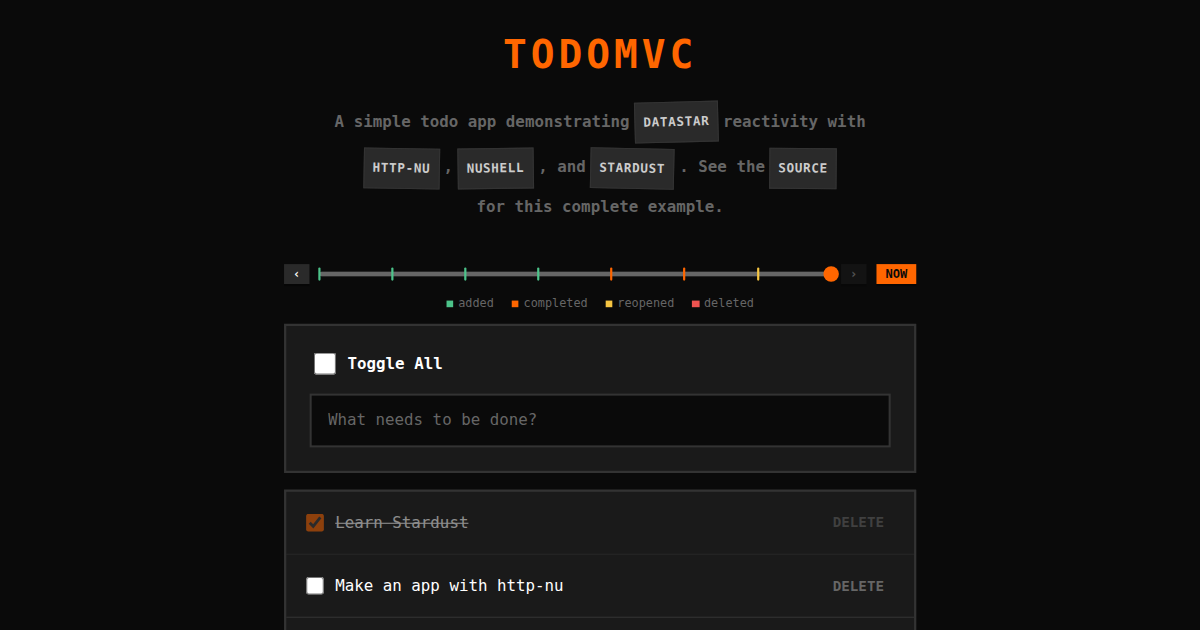
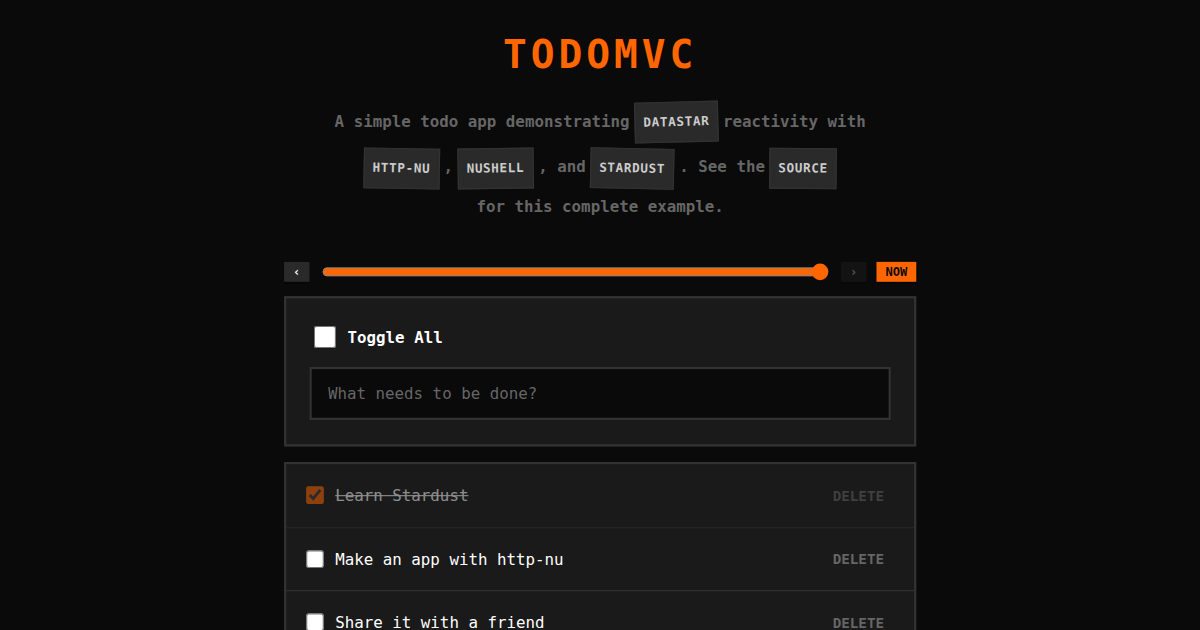
todomvc: drop slider marks, key and scrub-knob for a plain range
The marks smeared together past a few hundred changes, and scrub-knob's
relative drag left the thumb behind the pointer. A native range spans the
whole history with the thumb under the pointer; the step buttons and arrow
keys still move one change. Refresh the og image to match.

diff --git a/examples/todomvc/templates/index.html b/examples/todomvc/templates/index.html
@@ -23,7 +23,6 @@
     <meta property="twitter:image" content="{{ url }}static/og.png?v={{ rev }}">
     <link rel="stylesheet" href="static/style.css?v={{ rev }}">
     <script type="module" src="{{ datastar }}"></script>
-    <script type="module" src="static/scrub-knob.js?v={{ rev }}"></script>
   </head>
   <body>
     <main>
@@ -75,14 +74,13 @@
       </div>
 
       <!-- Time travel. $_steps lists the transactions that changed the list,
-           oldest first, sent with each live update; the last is now. $_kinds
-           has each one's kind of change, drawn as marks on the slider. $at is
+           oldest first, sent with each live update; the last is now. $at is
            the transaction shown, 0 for now (live), and $_pos its index in
            $_steps. Signals starting with _ stay on the page: requests don't
            send them. The slider sits above the todos, so it stays put. -->
       <div
         class="time-travel"
-        data-signals="{at: 0, _steps: [], _kinds: []}"
+        data-signals="{at: 0, _steps: []}"
         data-computed:_last="$_steps.length - 1"
         data-computed:_pos="$at == 0 ? $_steps.length - 1 : $_steps.indexOf($at)"
         data-init="@get('/sse')"
@@ -93,14 +91,14 @@
           data-attr:disabled="$_pos <= 0"
           data-on:click="$at = $_steps[Math.max(0, $_pos - 1)]; @get('/sse')"
         >&lsaquo;</button>
-        <scrub-knob
+        <!-- max before value: a value past the old max would be clamped. -->
+        <input
+          type="range"
           min="0"
-          px-per-frame="auto"
-          data-attr:max="$_last"
-          data-attr:value="$_pos"
-          data-attr:marks="JSON.stringify($_kinds)"
-          data-on:scrub="$at = evt.detail.value >= $_last ? 0 : $_steps[evt.detail.value]; @get('/sse')"
-        ></scrub-knob>
+          aria-label="history"
+          data-effect="el.max = $_last; el.value = $_pos"
+          data-on:input__debounce.50ms="$at = +el.value >= $_last ? 0 : $_steps[+el.value]; @get('/sse')"
+        />
         <button
           type="button"
           aria-label="next change"
@@ -113,13 +111,6 @@
           data-on:click="$at != 0 && ($at = 0, @get('/sse'))"
         >Now</button>
       </div>
-
-      <p class="legend">
-        <span data-kind="added">added</span>
-        <span data-kind="completed">completed</span>
-        <span data-kind="reopened">reopened</span>
-        <span data-kind="deleted">deleted</span>
-      </p>
 
       <!-- Replaced by each /sse event: the header and the list. -->
       <div id="todos"></div>

diff --git a/examples/todomvc/static/style.css b/examples/todomvc/static/style.css
@@ -24,7 +24,7 @@
 
   --motion: 200ms ease;
 
-  /* The kinds of change, on the slider's marks and the history header. */
+  /* The kinds of change, on the history header. */
   --change-added: #4cc38a;
   --change-completed: var(--accent);
   --change-reopened: #f5c542;
@@ -111,35 +111,9 @@ header input[type="text"]::placeholder {
   font-size: 0.85em;
 }
 
-.time-travel scrub-knob {
+.time-travel input[type="range"] {
   flex: 1;
-  --mark-added: var(--change-added);
-  --mark-completed: var(--change-completed);
-  --mark-reopened: var(--change-reopened);
-  --mark-deleted: var(--change-deleted);
-  --mark-other: var(--change-other);
-  --scrub-fill: var(--text-muted);
-}
-
-/* The key to the slider's marks. */
-.legend {
-  display: flex;
-  justify-content: center;
-  gap: 1.5em;
-  margin: -0.5em 0 1em 0;
-  padding: 0;
-  color: var(--text-muted);
-  font-size: 0.75em;
-  font-weight: normal;
-}
-
-.legend span::before {
-  content: "";
-  display: inline-block;
-  width: 0.6em;
-  height: 0.6em;
-  margin-right: 0.4em;
-  background: var(--kind);
+  accent-color: var(--accent);
 }
 
 [data-kind="added"] { --kind: var(--change-added); }

diff --git a/examples/todomvc/README.md b/examples/todomvc/README.md
@@ -32,8 +32,7 @@ the subscription's event count.
 The slider travels back through the list's history, one change per step.
 Every write tags its transaction with the kind of change it made
 (`#_tx {changes todos kind added}`; `#_tx` is the transaction's own entity),
-and `todos/changes` lists the tagged transactions. Their kinds are drawn as
-colored marks on the slider. Anywhere left of the right edge, the page shows
+and `todos/changes` lists the tagged transactions. Anywhere left of the right edge, the page shows
 the list as it was (`todos/list-at`, a query with `bind {with {db {asOf
 ?at}}}`), with a header saying which change it is and what it did, e.g.
 `Change 7 of 10 . Reopened "milk"`. It's read-only: an edit made while
@@ -41,10 +40,9 @@ viewing the past would land on the present, so the server renders the state
 as text, with no checkboxes, buttons or new-todo input. Back at the right
 edge, or with Now, it's live again.
 
-The slider is `<scrub-knob>` (`static/scrub-knob.js`), from http-nu's 2048
-example. A press away from the thumb jumps there, and a drag spreads the
-whole history across the track, at least 4 pixels per step. The arrow keys
-and the buttons beside it step by one. It sits above the list, and a past
+The slider is a plain `<input type="range">` over the steps, so the whole
+history spans its width and the thumb follows the pointer. The arrow keys
+and the buttons beside it step by one change. It sits above the list, and a past
 change's header and rows are the same height as live ones, so nothing moves
 as you scrub.
 
